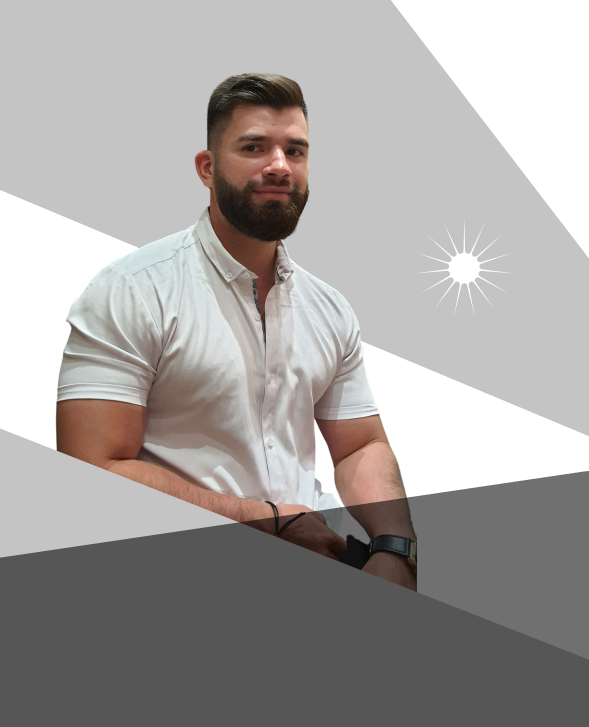
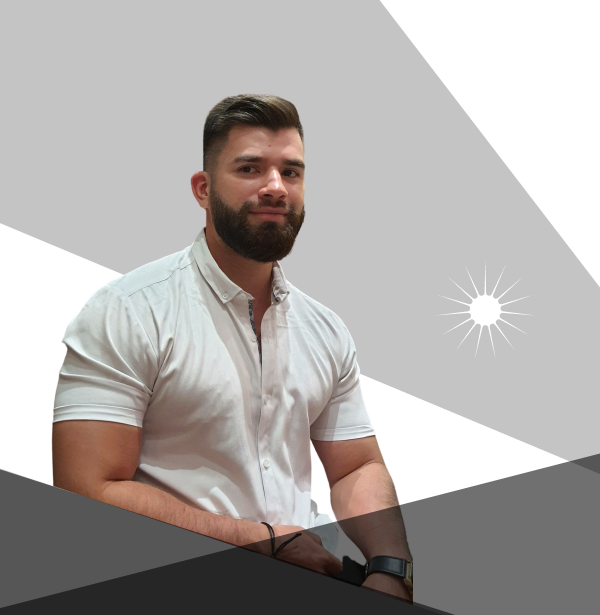
now we have a fisrt step of all landing finished

diff --git a/src/styles/css/styles.css b/src/styles/css/styles.css
@@ -496,6 +496,7 @@ body {
 header {
   width: 100%;
   height: 64px;
+  position: fixed;
 }
 
 .menu {
@@ -842,6 +843,11 @@ div.show2 {
     margin: 5px 0 0 0;
   }
 }
+@media screen and (min-width: 835px) {
+  .resume {
+    display: none;
+  }
+}
 .section-main--one {
   width: 100%;
   height: 100%;
@@ -947,6 +953,7 @@ div.show2 {
     -webkit-box-pack: end;
         -ms-flex-pack: end;
             justify-content: flex-end;
+    background-position: initial;
     padding-bottom: 70px;
   }
 }
@@ -1068,12 +1075,16 @@ div.show2 {
 @media screen and (min-width: 600px) {
   .main-banner--container {
     background-image: url("/src/assets/image/Img/Banner600px/600px.png");
+    height: 100vh;
   }
 }
 @media screen and (min-width: 600px) and (min-height: 728px) {
   .main-banner--container {
     background-image: url("/src/assets/image/Img/Banner600px/600px.png");
-    padding-bottom: 50px;
+  }
+  .main-banner--container .banner-img--container {
+    padding-right: 25px;
+    margin-bottom: -5px;
   }
 }
 @media screen and (min-width: 600px) and (min-height: 1024px) {
@@ -1176,13 +1187,11 @@ div.show2 {
 }
 @media screen and (min-width: 767px) {
   .main-banner--container {
-    height: 543px;
     background-image: url("/src/assets/image/Img/Banner768px/Frame2.png");
   }
 }
 @media screen and (min-width: 832px) {
   .main-banner--container {
-    height: 543px;
     background-image: url("/src/assets/image/Img/Banner834px/Frame1.png");
   }
 }

diff --git a/src/styles/sass/components/_Banner.scss b/src/styles/sass/components/_Banner.scss
@@ -68,6 +68,7 @@
 @media screen and (min-width: 374px) and (min-height: 812px) {
     .main-banner--container {
         background-image: url("/src/assets/image/Img/secondBanner.2.png");
+      
         height: 100vh;
     }
 }
@@ -77,6 +78,7 @@
     .main-banner--container {
         background-image: url("/src/assets/image/Img/Banner414px/Component3.png");
         justify-content: flex-end;
+        background-position: initial;
         padding-bottom: 70px;
     }
 }
@@ -189,13 +191,17 @@
 @media screen and (min-width: 600px) {
     .main-banner--container {
         background-image: url("/src/assets/image/Img/Banner600px/600px.png");
+        height: 100vh;
     }
 }
 
 @media screen and (min-width: 600px) and (min-height: 728px) {
     .main-banner--container {
         background-image: url("/src/assets/image/Img/Banner600px/600px.png");
-        padding-bottom: 50px;
+        .banner-img--container {
+            padding-right: 25px;
+            margin-bottom: -5px;
+        }
     }
 }
 
@@ -286,8 +292,7 @@
 
 
 @media screen and (min-width: 767px) {
-    .main-banner--container {
-        height: 543px;
+    .main-banner--container { 
         background-image: url("/src/assets/image/Img/Banner768px/Frame2.png");
     }
 }
@@ -295,7 +300,6 @@
 
 @media screen and (min-width: 832px) {
     .main-banner--container {
-        height: 543px;
         background-image: url("/src/assets/image/Img/Banner834px/Frame1.png");
     }
 }

diff --git a/public/index.html b/public/index.html
@@ -53,7 +53,6 @@
   </body>
   <script>
     function showResume() {
-      console.log("showResume");
       document.getElementById("resume").classList.toggle("show2");
       if (document.getElementById("otroModo").classList.toggle("show", true)) {
         document.getElementById("otroModo").classList.toggle("show", false);

diff --git a/src/styles/sass/components/_Header.scss b/src/styles/sass/components/_Header.scss
@@ -3,6 +3,7 @@
 header {
     width: 100%;
     height: 64px;
+    position: fixed;
 }
 
 // styling for mobile devices
@@ -228,3 +229,8 @@ div.show2{
     }
 }
 
+@media screen and (min-width: 835px)  {
+    .resume{
+        display: none;
+    }
+}
